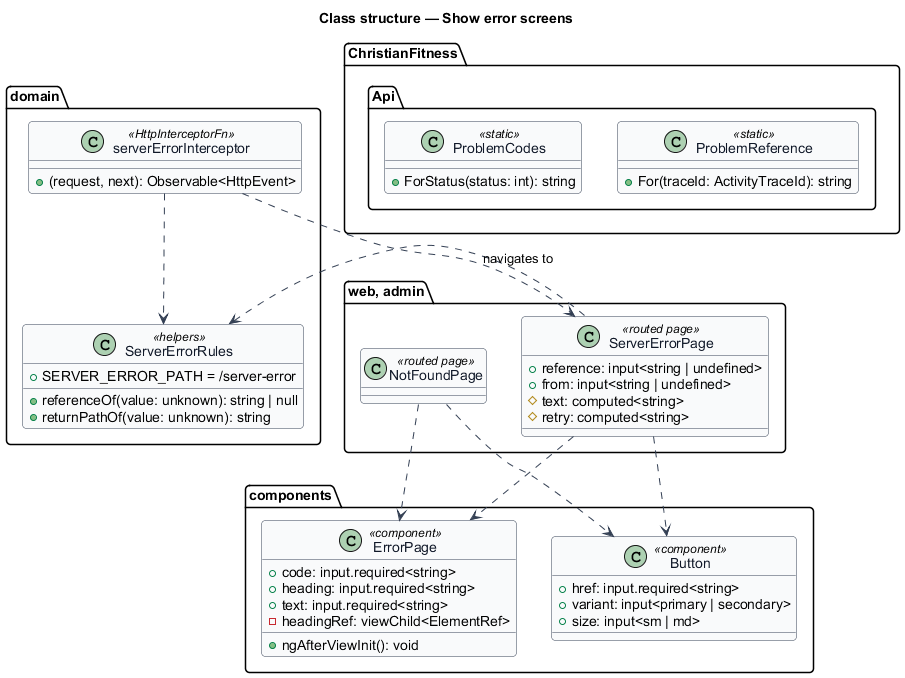
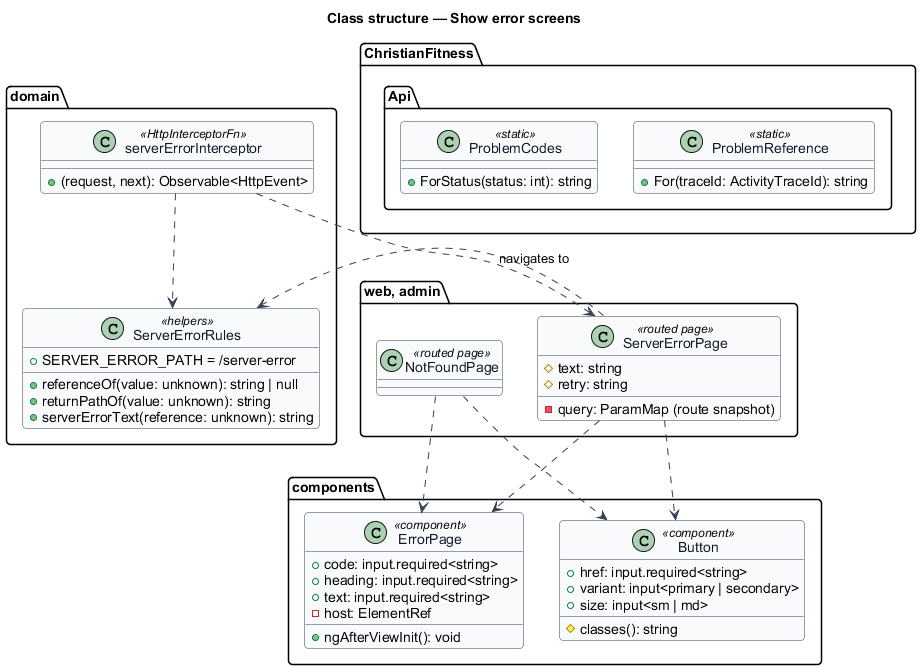
Align the error-screens design with the code and record slice 30.1
The design now says the server-error page reads the route snapshot and the
error page focuses its heading through its host element; CONTRIBUTING lists
npm test; lessons-learned and both journey files show 7% complete.

Claude-Session: https://claude.ai/code/session_01LjZiMqsjT8jL49Vuccb2Zr

Changed region(s): [[0.0, 0.0, 1.0, 1.0], [0.495, 0.0, 0.6497, 0.0597], [0.2785, 0.9851, 0.3094, 1.0]]

diff --git a/frontend/e2e/page-objects/shared/error-screen.ts b/frontend/e2e/page-objects/shared/error-screen.ts
@@ -11,6 +11,8 @@ export abstract class ErrorScreen {
   readonly code: Locator;
   readonly text: Locator;
   readonly actions: Locator;
+  /** The row that holds the actions. */
+  readonly actionBar: Locator;
 
   constructor(protected readonly page: Page) {
     this.main = page.getByRole('main');
@@ -18,7 +20,8 @@ export abstract class ErrorScreen {
     this.heading = block.getByRole('heading', { level: 1 });
     this.code = block.locator('.system__code');
     this.text = block.locator('.empty-state__text');
-    this.actions = block.locator('.empty-state__actions').getByRole('link');
+    this.actionBar = block.locator('.empty-state__actions');
+    this.actions = this.actionBar.getByRole('link');
   }
 
   /** The action link with this accessible name. */

diff --git a/docs/lessons-learned.md b/docs/lessons-learned.md
@@ -6,7 +6,7 @@ merges. Read this file before starting a slice and apply what fits.
 Each entry records what slowed the slice, the new lessons it taught and how earlier lessons
 worked when applied. Newest entries go at the bottom.
 
-**% complete:** 6% (3 of 54 slices; 5 of 83 days)
+**% complete:** 7% (4 of 54 slices; 6 of 83 days)
 
 ## Slice 1.1: Frontend workspace
 
@@ -140,3 +140,51 @@ worked when applied. Newest entries go at the bottom.
 - "`.gitattributes` with `eol=lf`" (1.1) kept the workflow and the rendered docs LF on Windows.
 - "A slice with no screen still films the running system" (1.2) carried over: the film's
   terminals hold what the CI runs said, not typed-in copies.
+
+## Slice 30.1: Not found and server error
+
+**What slowed it**
+
+- The initial bundle grew past the 220 kB warning with a slice that adds only two lazy screens.
+  Diffing `--stats-json` inputs against the base showed the cost was in `main`, from the first
+  use of Angular features: a view query (about 8 kB), class bindings (about 4.6 kB) and
+  `withComponentInputBinding` (2.4 kB). Each was replaced (`ElementRef` and `querySelector`, one
+  `[attr.class]` binding, the route snapshot). What remained came from Angular's chunk optimizer,
+  which switches on with the third lazy route: about 2 kB more raw, about 1 kB less transferred.
+  The warning budget went to 225 kB with that reason (ADR 0006).
+- `provideHttpClient` costs about 20 kB of the initial bundle, and no screen calls the API yet,
+  so the interceptor could not be registered without paying for nothing. It lives tested but
+  unregistered in `domain`; the first data-loading slice registers it.
+- The unit-test builder needs a DOM even for pure helpers: it failed until `happy-dom` was
+  installed.
+- Python's `read_text`/`write_text` on Windows used cp1252 and CRLF: a "·" became mojibake, which
+  Prettier turned into U+FFFD. Always pass `encoding='utf-8', newline='\n'`.
+- The keyboard spec raced the first render: Tab was pressed before the heading had focus. Await
+  `toBeFocused()` on the heading before pressing a key.
+- No admin mock existed for the error screens; they were added to the mock generator before code.
+
+**New lessons**
+
+- Read the initial total after the first use of any Angular template feature, not just a new
+  API: a `viewChild`, a `[class.x]` binding or router input binding each grows `main` even when
+  only a lazy component uses it.
+- A screen reached with `skipLocationChange` can read its query parameters once from the
+  `ActivatedRoute` snapshot: every arrival creates the page anew.
+- Error-screen actions are plain `<a href>` links: a whole-document load is the right recovery
+  after a failure, and it costs no router code.
+- A reference a member can quote comes from the server (`CF-` and the first eight hex digits of
+  the trace id), so an operator finds the request by it; the client only checks its shape and
+  never shows a value it did not accept.
+- A pure helper with a table of cases is tested with `it.each`, one row per case, and each guard
+  is proved red by breaking that guard alone.
+
+**How earlier lessons worked**
+
+- "Prove a rule red with a throwaway change, then restore it" (1.1, 1.2) caught a weak test: the
+  404's exact-keys test was only honest after `>= 500` was broken to `>= 400` and it failed.
+- "Correlate a server span by sending a `traceparent` with a known trace id" (1.2) gave the
+  reference test a fixed expected value, `CF-4BF92F35`.
+- "Read the initial total after each new Angular API" (AGENTS.md) turned out to need
+  `--stats-json` diffs to find where the bytes went; reading the total alone only said that they
+  had gone.
+- "CI only sees what is pushed" (1.3) did not apply: every red here was local.

diff --git a/docs/detailed-designs/errors/show-error-screens/README.md b/docs/detailed-designs/errors/show-error-screens/README.md
@@ -34,11 +34,14 @@ state that failed ([ADR 0006](../../../adr/0006-error-screens.md)).
   design system's error-page block with the mock's classes: `empty-state empty-state--system`,
   `system__code` (`aria-hidden="true"`), `system__title` (the page's only `h1`, `tabindex="-1"`),
   `empty-state__text` and `empty-state__actions`. Inputs: `code`, `heading`, `text`; the actions
-  are projected through `[slot=actions]`. After its view renders it moves focus to the heading
-  (`L2-043` AC7). The text is an input rendered by interpolation, never as HTML (`L2-032` AC3).
+  are projected through `[slot=actions]`. After its view renders it finds the heading in its own
+  host element (`ElementRef`) and focuses it, with no view query, which would add about 8 kB to
+  the initial bundle (`L2-043` AC7, ADR 0006). The text is an input rendered by interpolation, never as HTML (`L2-032` AC3).
 - **`Button`** — presentation component in `components` (`cf-button`) that renders the
   design system's `btn` block as a link: inputs `href`, `variant` (`primary`, `secondary`) and
-  `size` (`sm`, `md`), content projected once. On a coarse pointer a `btn--sm` target extends to
+  `size` (`sm`, `md`), content projected once. One `[attr.class]` binding to a `classes()`
+  method sets `btn btn--{variant}` and `btn--sm`, rather than class bindings, which cost about
+  4.6 kB of the initial bundle. On a coarse pointer a `btn--sm` target extends to
   44 × 44 px (`L2-043` AC2, `L2-038` AC4). A `<button>` branch arrives with the first slice that
   needs one.
 - **`NotFoundPage`** — routed page in each app. It puts `ErrorPage` in the page's one
@@ -47,15 +50,18 @@ state that failed ([ADR 0006](../../../adr/0006-error-screens.md)).
   links are "Go to home" (`/`) and "Browse events" (`/events`); the admin app's are "Go to
   dashboard" (`/`) and "Manage events" (`/events`) (`L2-043` AC1, AC2).
 - **`ServerErrorPage`** — routed page in each app. Its query parameters `reference` and `from`
-  arrive as inputs through the router's component input binding. It shows code `500`, heading
+  are read once from the `ActivatedRoute` snapshot, since every arrival creates the page anew;
+  component input binding would add 2.4 kB to the initial bundle (ADR 0006). It shows code `500`, heading
   "Something went wrong" and "That's on us, not you, and we've been notified. Try again in a
   moment.", followed by "If it keeps happening, quote reference CF-…." only when `referenceOf`
   accepts the reference. "Try again" links to `returnPathOf(from)`; "Go to home" (member app)
   or "Go to dashboard" (admin app) links to `/` (`L2-043` AC4, AC6).
-- **`referenceOf`, `returnPathOf`** — pure helpers in `domain/src/errors/server-error.ts`, with
+- **`referenceOf`, `returnPathOf`, `serverErrorText`** — pure helpers in `domain/src/errors/server-error.ts`, with
   one unit test per row. `referenceOf` returns its argument only when it is a string matching
   `CF-` and eight upper-case hexadecimal digits, else `null`. `returnPathOf` returns its argument
-  only when it is a string that starts with one `/` (not `//` or `/\`), else `/`.
+  only when it is a string that starts with one `/` (not `//` or `/\`), has no white space or
+  control character and is not `/server-error` itself, else `/`. `serverErrorText` builds the
+  screen's sentence, with the reference sentence only when `referenceOf` accepts it.
 - **`serverErrorInterceptor`** — `HttpInterceptorFn` in `domain`. When a GET to a URL whose path
   starts with `/api/` answers with a status of 500 or more, it navigates to `server-error` with
   `skipLocationChange` and the query parameters `reference` (read from the ProblemDetails body

diff --git a/docs/journeys.detailed.md b/docs/journeys.detailed.md
@@ -5,14 +5,14 @@ is end to end (API, screen, acceptance test) and ships on its own. Slices are li
 dependency order: each one builds only on slices above it, so work can go straight down the
 table. A slice ID is its root journey's number followed by the slice's position in that journey.
 
-**% complete:** 6% (3 of 54 slices; 5 of 83 days)
+**% complete:** 7% (4 of 54 slices; 6 of 83 days)
 
 | #   | Slice | Root journey                        | Name                          | Description                                                                          | Effort (days) |
 | --- | ----- | ----------------------------------- | ----------------------------- | ------------------------------------------------------------------------------------ | ------------- |
 | 1   | 1.1   | 1 Scaffold the apps                 | ✅ Frontend workspace         | Web, admin and libraries with lint boundaries, budgets and Playwright fixture.       | 2             |
 | 2   | 1.2   | 1 Scaffold the apps                 | ✅ Backend skeleton           | Clean-architecture projects, migrate CLI, auth fallback, telemetry, health endpoint. | 2             |
 | 3   | 1.3   | 1 Scaffold the apps                 | ✅ CI pipeline                | Lint, build and acceptance specs run on every push.                                  | 1             |
-| 4   | 30.1  | 30 Recover from errors and offline  | Not found and server error    | Unknown routes and server failures show a screen with a way back.                    | 1             |
+| 4   | 30.1  | 30 Recover from errors and offline  | ✅ Not found and server error | Unknown routes and server failures show a screen with a way back.                    | 1             |
 | 5   | 2.1   | 2 Join the community                | Join with valid details       | A visitor creates an account and lands signed in.                                    | 2             |
 | 6   | 2.2   | 2 Join the community                | Join refusals                 | Invalid fields and a taken email are refused with clear messages.                    | 1             |
 | 7   | 3.1   | 3 Sign in and out                   | Sign in and sign out          | Members sign in with a secure session cookie and sign out.                           | 2             |

diff --git a/CONTRIBUTING.md b/CONTRIBUTING.md
@@ -46,12 +46,13 @@ Documentation, mocks and test-only changes are exempt from this flow.
 3. Make sure lint, build and tests pass locally:
 
    ```sh
-   cd frontend && npm ci && npm run lint && npm run format:check && npm run build && npm run e2e
+   cd frontend && npm ci && npm run lint && npm run format:check && npm run build && npm test && npm run e2e
    cd backend && dotnet build && dotnet test
    ```
 
    `dotnet test` here runs every backend test, the direct handler and domain tests included;
-   CI runs only the acceptance tests through the API (see below).
+   CI runs only the acceptance tests through the API (see below). `npm test` runs the unit tests
+   of the `domain` library once, with Vitest; CI does not run them.
 
 4. Write clear commit messages in the imperative mood (`Add event registration endpoint`).
 5. Open the pull request against `main`, link the related issue and describe what changed

diff --git a/docs/journeys.md b/docs/journeys.md
@@ -6,7 +6,7 @@ handler and API, Angular screen, and acceptance tests (ATDD). Each journey also 
 of the cross-cutting requirements in `specs/L2.md` (security, performance, accessibility,
 telemetry), so those are not listed on their own.
 
-**% complete:** 6% (1 of 30 journeys; 5 of 83 days: journey 1 is done)
+**% complete:** 7% (1 of 30 journeys; 6 of 83 days: journey 1 is done, and journey 30 has 1 of its 2 days)
 
 | #   | Journey                          | App    | Description                                                                   | Effort (days) |
 | --- | -------------------------------- | ------ | ----------------------------------------------------------------------------- | ------------- |
